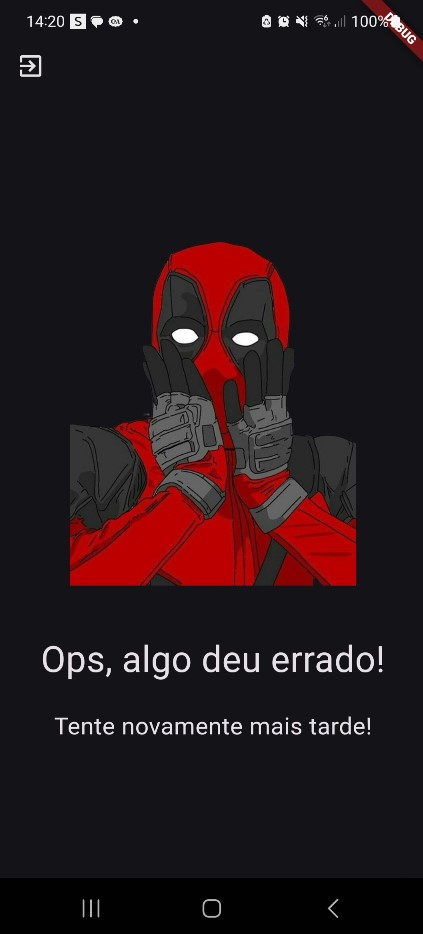
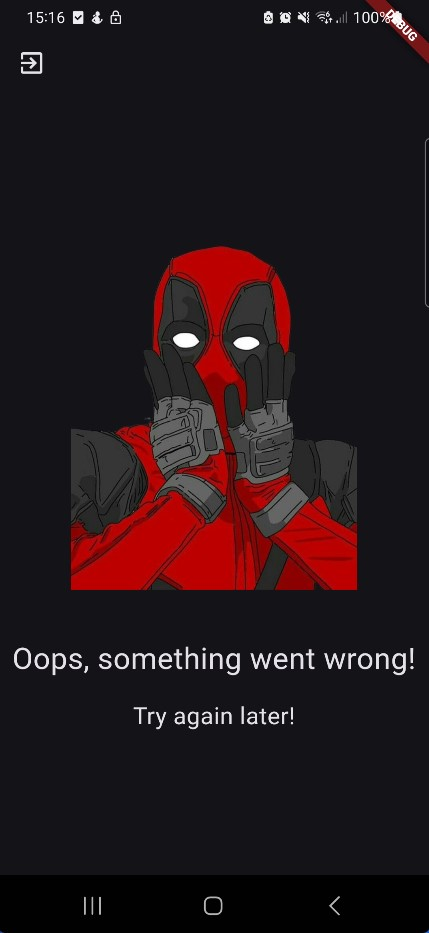
fix: alteração de texto para ingles

diff --git a/lib/app/modules/marvel_characters/presenter/pages/error_page.dart b/lib/app/modules/marvel_characters/presenter/pages/error_page.dart
@@ -36,11 +36,11 @@ class _ErrorPageState extends State<ErrorPage> {
             Text(
               text.ops,
               style: const TextStyle(
-                fontSize: 30,
+                fontSize: 25,
               ),
             ),
             const SizedBox(
-              height: 20,
+              height: 15,
             ),
             Text(
               text.tryAgain,

diff --git a/lib/app/modules/marvel_characters/l10n/marvel_characters_text.dart b/lib/app/modules/marvel_characters/l10n/marvel_characters_text.dart
@@ -1,6 +1,6 @@
 class MarvelCharactersText {
   String get titleCharacters => 'MARVEL CHARACTERS';
   String get noDescription => 'No description found';
-  String get ops => 'Ops, algo deu errado!';
-  String get tryAgain => 'Tente novamente mais tarde!';
+  String get ops => 'Oops, something went wrong!';
+  String get tryAgain => 'Try again later!';
 }
